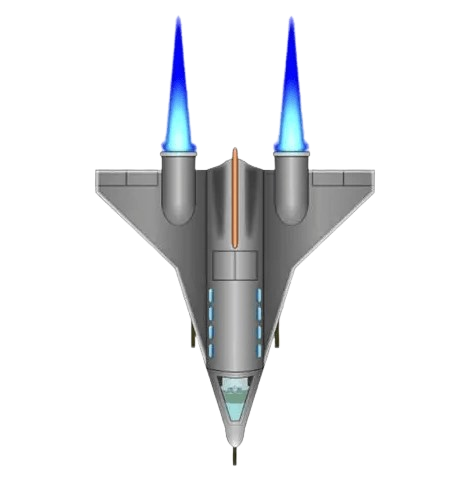
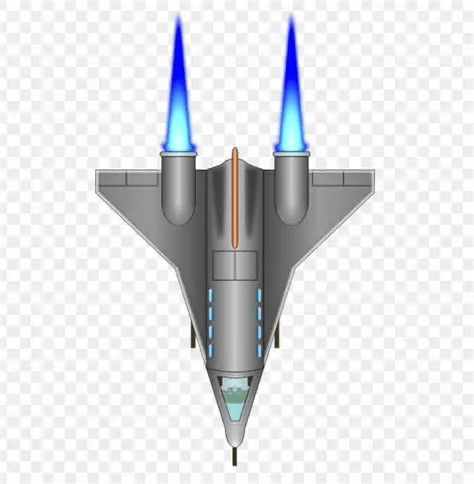
update

diff --git a/space shooter game/main_game.py b/space shooter game/main_game.py
@@ -1,59 +1,63 @@
 import pygame as pg
-import numpy as np
 import random
+pg.init()
 width=1000
-height=500
-e_y=0
+height=600
 win=pg.display.set_mode((width,height))
-running=True
+run=True
+sx=width/2
+sy=height-100
+fire=False
 clock=pg.time.Clock()
+bullet_pos=[]
+ey=0
+#loading images
 bg=pg.image.load("background.webp")
 bg=pg.transform.scale(bg,(width,height))
-ship=pg.image.load("spaceship.png")
-ship=pg.transform.scale(ship,(100,100))
-bullet=pg.image.load("bullet.png")
-bullet=pg.transform.scale(bullet,(30,20))
-x=250
-bullet_mode=False
-bx=0
-by=0
-enemy_coords=np.empty((0,2))
-shooter_timer=0
-shooter_timerf=0
-bullet_coords=np.empty((0,2))
-enemy=pg.image.load('enemy.png')
-enemy=pg.transform.scale(enemy,(100,50))
-while running:
-    e_x=random.randint(0,width)
-    if len(enemy_coords)<=8:
-        enemy_coords=np.append(enemy_coords,[[e_x,e_y]],axis=0)
 
+space_ship=pg.image.load("spaceship.png")
+space_ship=pg.transform.scale(space_ship,(100,100))
+
+bullet=pg.image.load("bullet.png")
+bullet=pg.transform.scale(bullet,(50,50))
+
+enemy=pg.image.load("enemy.png")
+enemy=pg.transform.scale(enemy,(100,100))
+
+
+    
+
+#controlling user input
+def action():
+    global fire
+    global sx,sy
+    button=pg.key.get_pressed()
+    if button[pg.K_LEFT]:
+            sx-=20
+    if button[pg.K_RIGHT]:
+            sx+=20
+
+
+while run:
     for event in pg.event.get():
         if event.type==pg.QUIT:
-            running=False
-    keys=pg.key.get_pressed()
-    if keys[pg.K_LEFT]:
-        x-=10
-    if keys[pg.K_RIGHT]:
-            x+=10
-    if keys[pg.K_SPACE]:
-        shooter_timerf+=1 
-        if shooter_timerf>=5:
-            bullet_mode=True
-            bx=x
-            by=height-100
-            bullet_coords=np.append(bullet_coords,[[bx,by]],axis=0)#not default here so 
-            #need to inilizate  to add rowise also make multidimensional by adding[[]]
-            shooter_timerf=0
+            run=False
+        if event.type==pg.KEYDOWN:
+            if event.key==pg.K_SPACE:
+                fire=True
+                bullet_pos.append((sx,sy))
+                
     win.blit(bg,(0,0))
-    win.blit(ship,(x,height-100))
-    for y,z in enemy_coords:
-        win.blit(enemy,(y,z))
-    if bullet_mode:
-        for a,b in bullet_coords:
-            win.blit(bullet,(a,b))
-    bullet_coords=bullet_coords-[0,5]
-    enemy_coords=enemy_coords+[0,0.5]
-    clock.tick(60)
+    win.blit(enemy,(random.randint(0,width-100),ey))
+    win.blit(space_ship,(sx,sy))
+    for i in range(len(bullet_pos)):
+        x, y = bullet_pos[i]
+        bullet_pos[i] = (x, y - 10)
+        win.blit(bullet, (x, y))
+    action()
+        
+            
+            
+    clock.tick(40)
+    ey+=1
     pg.display.update()
-pg.quit()
